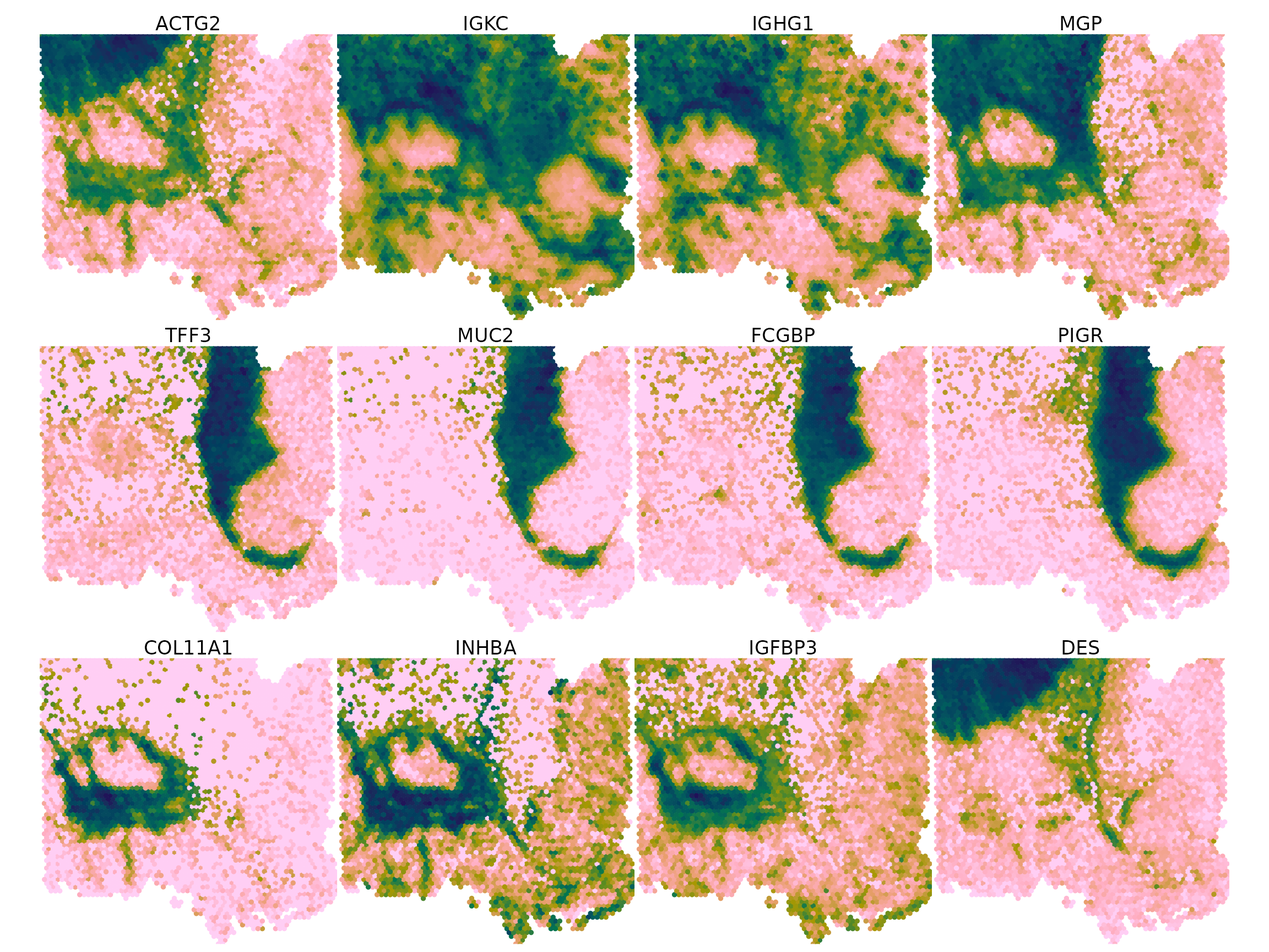
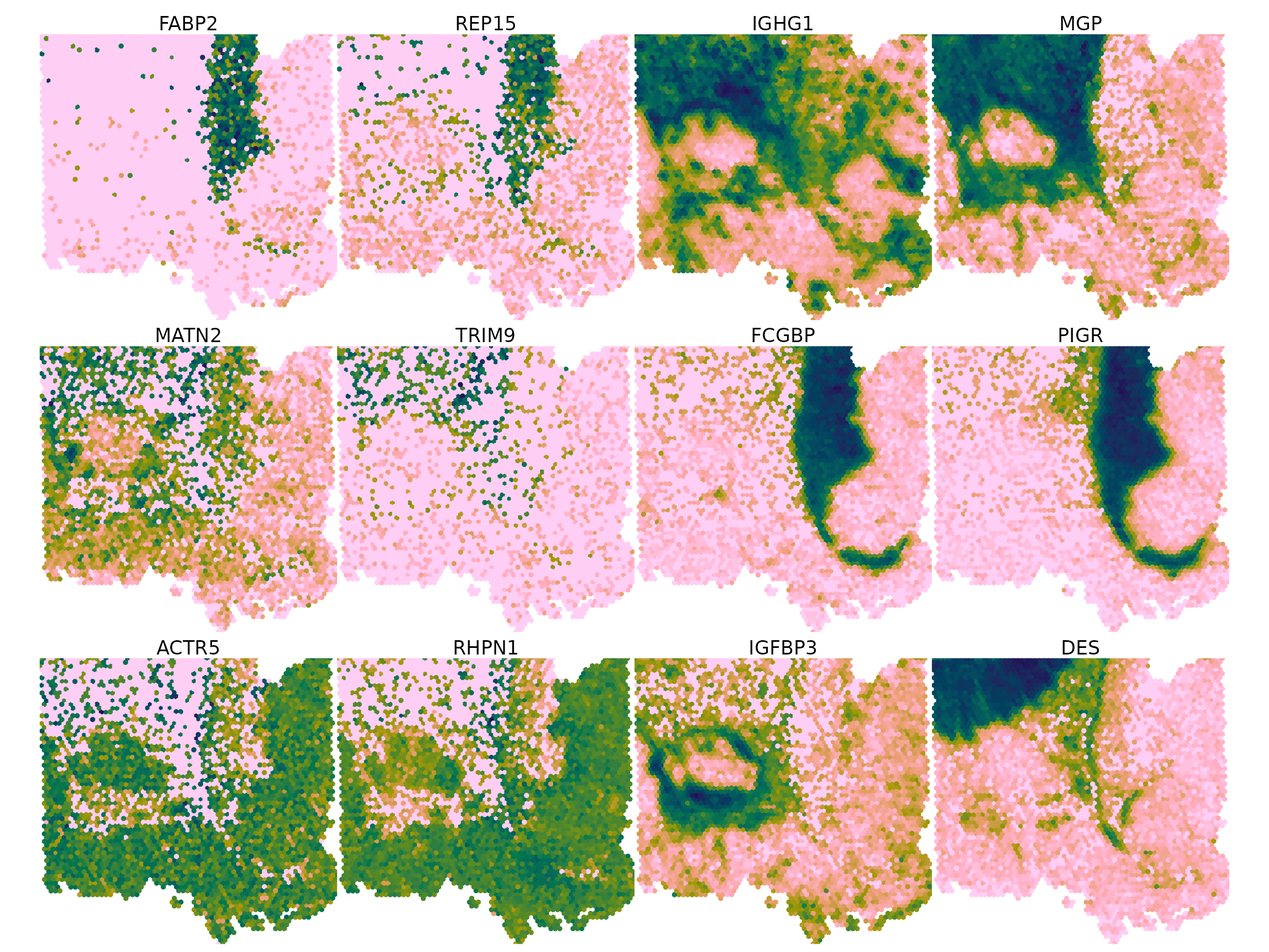
Deploying to gh-pages from @ HelenaLC/miro@839533d9fa1dc65f11c483cb58428710b24040ec 🚀

Changed region(s): [[0.0312, 0.0, 0.5, 1.0]]

diff --git a/articles/miro.html b/articles/miro.html
@@ -420,11 +420,14 @@ ACTG2, etc.):</p>
 <div class="sourceCode" id="cb20"><pre class="downlit sourceCode r">
 <code class="sourceCode R"><span><span class="va">emb</span> <span class="op">&lt;-</span> <span class="fu"><a href="https://rdrr.io/pkg/SingleCellExperiment/man/reducedDims.html" class="external-link">reducedDim</a></span><span class="op">(</span><span class="va">spe</span>, <span class="st">"PCA"</span><span class="op">)</span></span>
 <span><span class="va">rot</span> <span class="op">&lt;-</span> <span class="fu"><a href="https://rdrr.io/pkg/SingleCellExperiment/man/LEM-getset.html" class="external-link">featureLoadings</a></span><span class="op">(</span><span class="va">emb</span><span class="op">)</span></span>
-<span><span class="op">(</span><span class="va">gs</span> <span class="op">&lt;-</span> <span class="fu"><a href="https://rdrr.io/pkg/DelayedArray/man/DelayedArray-utils.html" class="external-link">apply</a></span><span class="op">(</span><span class="va">rot</span><span class="op">[</span>, <span class="fl">1</span><span class="op">:</span><span class="fl">3</span><span class="op">]</span>, <span class="fl">2</span>, \<span class="op">(</span><span class="va">.</span><span class="op">)</span> <span class="fu"><a href="https://rdrr.io/r/utils/head.html" class="external-link">tail</a></span><span class="op">(</span><span class="fu"><a href="https://rdrr.io/r/base/names.html" class="external-link">names</a></span><span class="op">(</span><span class="fu"><a href="https://rdrr.io/r/base/sort.html" class="external-link">sort</a></span><span class="op">(</span><span class="fu"><a href="https://rdrr.io/r/base/MathFun.html" class="external-link">abs</a></span><span class="op">(</span><span class="va">.</span><span class="op">)</span><span class="op">)</span><span class="op">)</span>, <span class="fl">4</span><span class="op">)</span><span class="op">)</span><span class="op">)</span></span></code></pre></div>
-<pre><code><span><span class="co">##      PC1     PC2     PC3      </span></span>
-<span><span class="co">## [1,] "ACTG2" "TFF3"  "COL11A1"</span></span>
-<span><span class="co">## [2,] "IGKC"  "MUC2"  "INHBA"  </span></span>
-<span><span class="co">## [3,] "IGHG1" "FCGBP" "IGFBP3" </span></span>
+<span><span class="op">(</span><span class="va">gs</span> <span class="op">&lt;-</span> <span class="fu"><a href="https://rdrr.io/pkg/DelayedArray/man/DelayedArray-utils.html" class="external-link">apply</a></span><span class="op">(</span><span class="va">rot</span><span class="op">[</span>, <span class="fl">1</span><span class="op">:</span><span class="fl">3</span><span class="op">]</span>, <span class="fl">2</span>, \<span class="op">(</span><span class="va">.</span><span class="op">)</span> <span class="op">{</span></span>
+<span>    <span class="va">gs</span> <span class="op">&lt;-</span> <span class="fu"><a href="https://rdrr.io/r/base/names.html" class="external-link">names</a></span><span class="op">(</span><span class="fu"><a href="https://rdrr.io/r/base/sort.html" class="external-link">sort</a></span><span class="op">(</span><span class="fu"><a href="https://rdrr.io/r/base/MathFun.html" class="external-link">abs</a></span><span class="op">(</span><span class="va">.</span><span class="op">)</span><span class="op">)</span><span class="op">)</span></span>
+<span>    <span class="fu"><a href="https://rdrr.io/r/base/c.html" class="external-link">c</a></span><span class="op">(</span><span class="fu"><a href="https://rdrr.io/r/utils/head.html" class="external-link">head</a></span><span class="op">(</span><span class="va">gs</span>, <span class="fl">2</span><span class="op">)</span>, <span class="fu"><a href="https://rdrr.io/r/utils/head.html" class="external-link">tail</a></span><span class="op">(</span><span class="va">gs</span>, <span class="fl">2</span><span class="op">)</span><span class="op">)</span></span>
+<span><span class="op">}</span><span class="op">)</span><span class="op">)</span></span></code></pre></div>
+<pre><code><span><span class="co">##      PC1     PC2     PC3     </span></span>
+<span><span class="co">## [1,] "FABP2" "MATN2" "ACTR5" </span></span>
+<span><span class="co">## [2,] "REP15" "TRIM9" "RHPN1" </span></span>
+<span><span class="co">## [3,] "IGHG1" "FCGBP" "IGFBP3"</span></span>
 <span><span class="co">## [4,] "MGP"   "PIGR"  "DES"</span></span></code></pre>
 <p>Let’s check the expression of a few of these:</p>
 <div class="sourceCode" id="cb22"><pre class="downlit sourceCode r">
